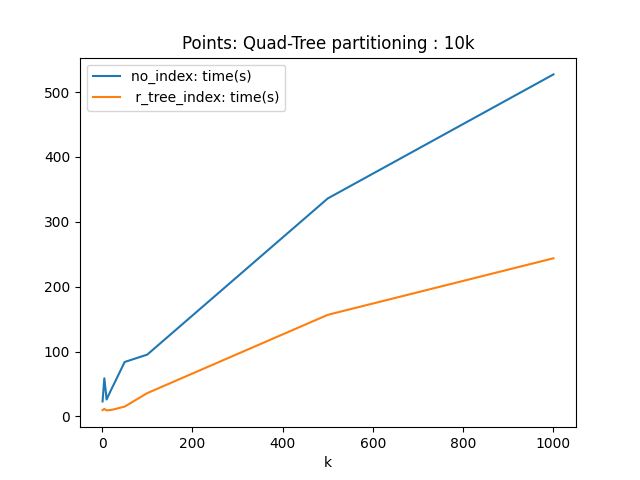
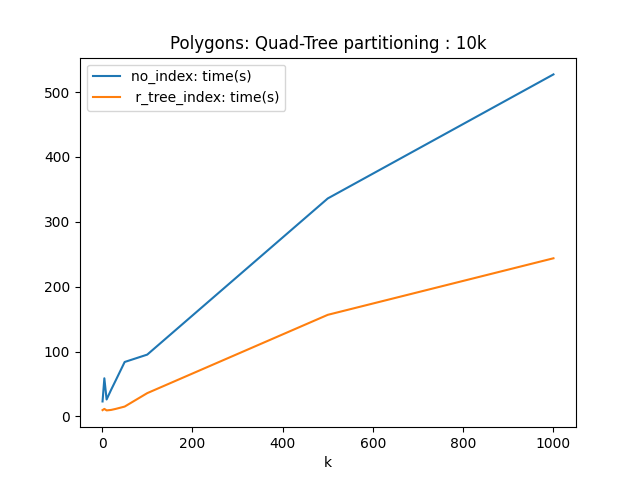
Add query-wise comparision bar chart

Changed region(s): [[0.25, 0.0625, 0.75, 0.125]]

diff --git a/charts/knn.py b/charts/knn.py
@@ -39,21 +39,21 @@ utils.plot_size(
 for size in [ '1k', '10k' ]:
     # KDB-Tree partitioning
     utils.plot_k(
-        'Points: KDB-Tree partitioning : ' + size,
+        'Polygons: KDB-Tree partitioning : ' + size,
         '../benchmarks/knn/single_node/polygons/index_comparision_' + size + '_kdb_partition.csv',
         '../benchmarks/knn/single_node/polygons/plots/index_comparision_' + size + '_kdb_partition.png'
     )
 
     # Quad-Tree partitioning
     utils.plot_k(
-        'Points: Quad-Tree partitioning : ' + size,
+        'Polygons: Quad-Tree partitioning : ' + size,
         '../benchmarks/knn/single_node/polygons/index_comparision_' + size + '_quad_partition.csv',
         '../benchmarks/knn/single_node/polygons/plots/index_comparision_' + size + '_quad_partition.png'
     )
 
 # Overall: KDB-Tree partitioning : K = 500
 utils.plot_size(
-    'Points: KDB-Tree partitioning : K = 500',
+    'Polygons: KDB-Tree partitioning : K = 500',
     '../benchmarks/knn/single_node/polygons/index_comparision_kdb_partition.csv',
     '../benchmarks/knn/single_node/polygons/plots/index_comparision_kdb_partition.png'
 )
@@ -104,28 +104,28 @@ utils.plot_size(
 for size in [ '1k', '10k' ]:
     # KDB-Tree partitioning
     utils.plot_k(
-        'Points: KDB-Tree partitioning : ' + size,
+        'Polygons: KDB-Tree partitioning : ' + size,
         '../benchmarks/knn/cluster/polygons/index_comparision_' + size + '_kdb_partition.csv',
         '../benchmarks/knn/cluster/polygons/plots/index_comparision_' + size + '_kdb_partition.png'
     )
 
     # Quad-Tree partitioning
     utils.plot_k(
-        'Points: Quad-Tree partitioning : ' + size,
+        'Polygons: Quad-Tree partitioning : ' + size,
         '../benchmarks/knn/cluster/polygons/index_comparision_' + size + '_quad_partition.csv',
         '../benchmarks/knn/cluster/polygons/plots/index_comparision_' + size + '_quad_partition.png'
     )
 
 # Overall: KDB-Tree partitioning : K = 500
 utils.plot_size(
-    'Points: KDB-Tree partitioning : K = 500',
+    'Overall: KDB-Tree partitioning : K = 500 (Cluster v/s Single-node)',
     '../benchmarks/knn/cluster/polygons/index_comparision_kdb_partition.csv',
     '../benchmarks/knn/cluster/polygons/plots/index_comparision_kdb_partition.png'
 )
 
 # Overall: Quad-Tree partitioning : K = 500
 utils.plot_size(
-    'Points: Quad-Tree partitioning : K = 500',
+    'Overall: Quad-Tree partitioning : K = 500 (Cluster v/s Single-node)',
     '../benchmarks/knn/cluster/polygons/index_comparision_quad_partition.csv',
     '../benchmarks/knn/cluster/polygons/plots/index_comparision_quad_partition.png'
 )
@@ -151,13 +151,13 @@ utils.plot_k(
 
 # Polygons:
 utils.plot_k(
-    'Points: Cluster v/s single-node : 10K : No index',
+    'Polygons: Cluster v/s single-node : 10K : No index',
     '../benchmarks/knn/overall/polygons_10k/overall_comparision_no_index.csv',
     '../benchmarks/knn/overall/polygons_10k/overall_comparision_no_index.png'
 )
 
 utils.plot_k(
-    'Points: Cluster v/s single-node : 10K : R-Tree index',
+    'Polygons: Cluster v/s single-node : 10K : R-Tree index',
     '../benchmarks/knn/overall/polygons_10k/overall_comparision_r_tree_index.csv',
     '../benchmarks/knn/overall/polygons_10k/overall_comparision_r_tree_index.png'
 )

diff --git a/postgis/range.py b/postgis/range.py
@@ -11,37 +11,37 @@ cursor = db.cursor()
 envelope = (-85.01, -60.01, 34.01, 50.01)
 
 
-# '''
-#     Points:
-# '''
-# def range_query_point(t):
-#     sql = "SELECT COUNT(*) FROM {0} WHERE ST_Intersects(point, (ST_SetSRID(ST_Envelope('LINESTRING({1} {2}, {3} {4})'::geometry), 4326)))".format(t, *envelope)
-#     pd.read_sql(sql, db)
+'''
+    Points:
+'''
+def range_query_point(t):
+    sql = "SELECT COUNT(*) FROM {0} WHERE ST_Intersects(point, (ST_SetSRID(ST_Envelope('LINESTRING({1} {2}, {3} {4})'::geometry), 4326)))".format(t, *envelope)
+    pd.read_sql(sql, db)
 
 
-# t = 'all_points_1K'
-# len = 1000
+t = 'all_points_1K'
+len = 1000
 
-# output_file = open('range_points.csv', 'w+')
-# pp = pprint.PrettyPrinter(indent=4, compact=True, stream=output_file)
-
-
-# pp.pprint("No index")
-# utils.drop_index(db, cursor, t, 'point')
-
-# s = time.time()
-# range_query_point(t)
-# d = time.time() - s
-# pp.pprint(str(len) + "," + str(round(d, 3)))
+output_file = open('range_points.csv', 'w+')
+pp = pprint.PrettyPrinter(indent=4, compact=True, stream=output_file)
 
 
-# pp.pprint("R-Tree index")
-# utils.create_index(db, cursor, t, 'point')
+pp.pprint("No index")
+utils.drop_index(db, cursor, t, 'point')
 
-# s = time.time()
-# range_query_point(t)
-# d = time.time() - s
-# pp.pprint(str(len) + "," + str(round(d, 3)))
+s = time.time()
+range_query_point(t)
+d = time.time() - s
+pp.pprint(str(len) + "," + str(round(d, 3)))
+
+
+pp.pprint("R-Tree index")
+utils.create_index(db, cursor, t, 'point')
+
+s = time.time()
+range_query_point(t)
+d = time.time() - s
+pp.pprint(str(len) + "," + str(round(d, 3)))
 
 
 

diff --git a/charts/utils.py b/charts/utils.py
@@ -47,6 +47,12 @@ def plot_size(title, path, img_path):
     plt.close()
 
 
+def plot_comparision(title, path, img_path):
+    df = pd.read_csv(path)
+    df.plot(x='query_type', y=df.columns[1:], title=title, kind='bar', rot=0)
+    plt.savefig(img_path)
+    plt.close()
+
 def plot_k(title, path, img_path):
     df = pd.read_csv(path)
     df.set_index('k').plot(title=title)

diff --git a/charts/postgis_vs_sedona.py b/charts/postgis_vs_sedona.py
@@ -23,3 +23,9 @@ utils.plot_size(
     '../benchmarks/postgis_vs_sedona/range.csv',
     '../benchmarks/postgis_vs_sedona/plots/range.png'
 )
+
+utils.plot_comparision(
+    'Overall: Sedona v/s PostGIS : 10K Polygons',
+    '../benchmarks/postgis_vs_sedona/overall.csv',
+    '../benchmarks/postgis_vs_sedona/plots/overall.png'
+)

diff --git a/postgis/join.py b/postgis/join.py
@@ -14,8 +14,8 @@ def join(t1, t2):
 
 
 t1 = 'all_points_1K'
-t2 = 'all_source_100K'
-len = 10000
+t2 = 'all_source_10K'
+len = 1000
 
 output_file = open('join.csv', 'w+')
 pp = pprint.PrettyPrinter(indent=4, compact=True, stream=output_file)
